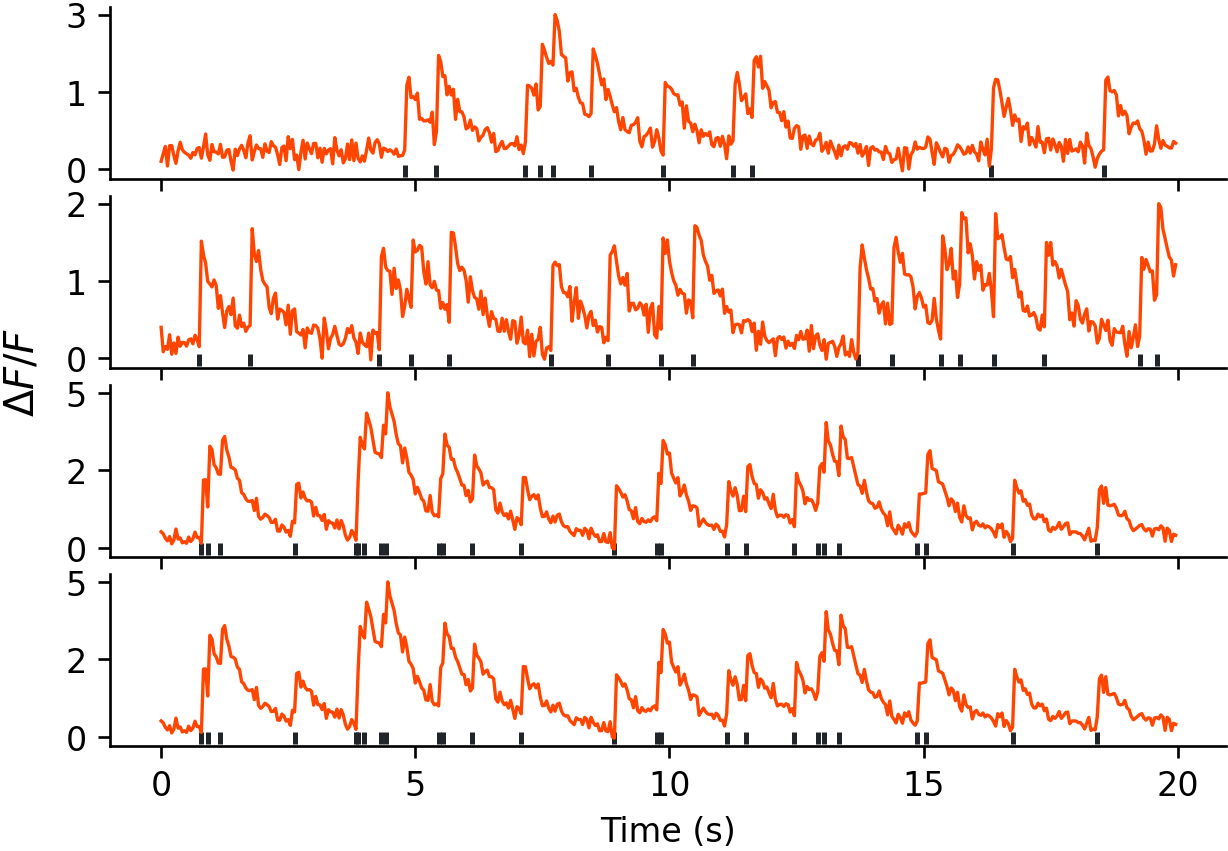
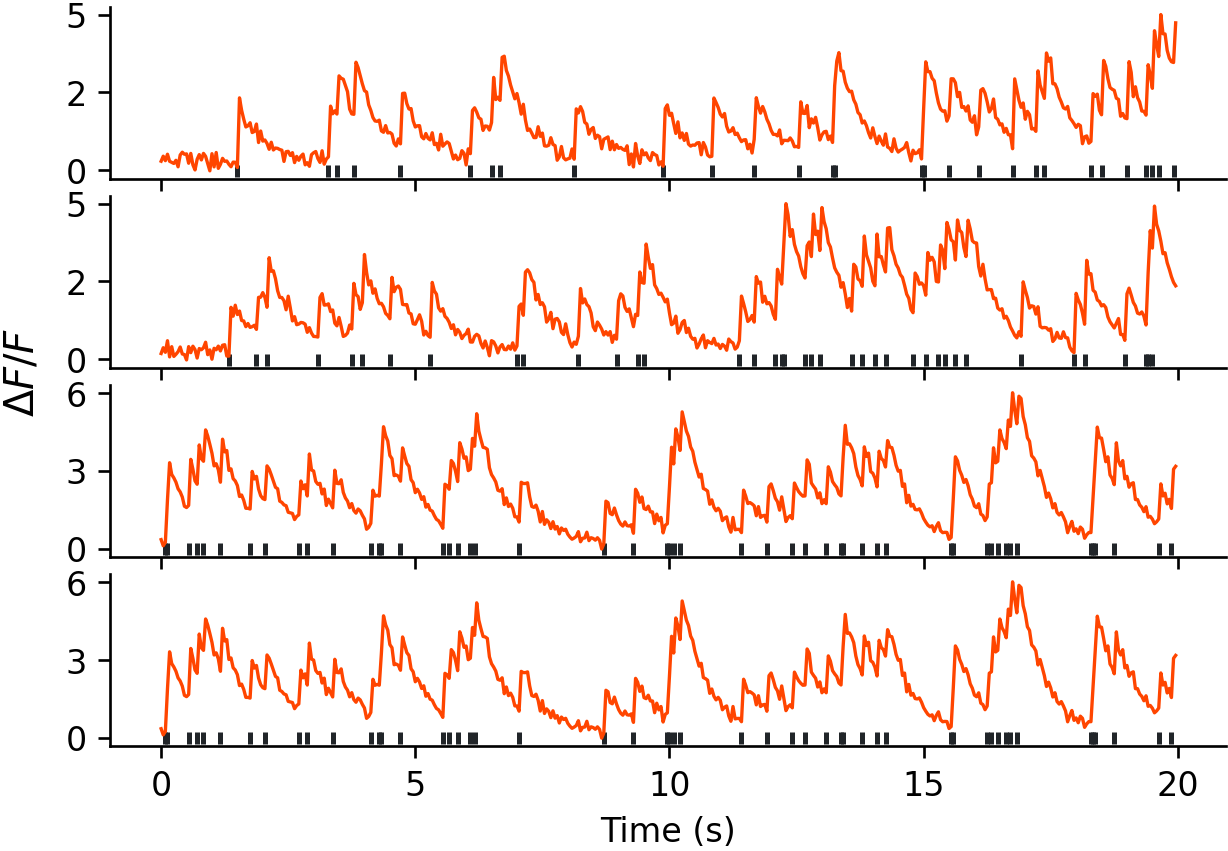
update

diff --git a/spikes2calcium.py b/spikes2calcium.py
@@ -4,22 +4,24 @@ import numpy as np
 warnings.filterwarnings("ignore", category=RuntimeWarning)
 
 
-def _time2calcium(spike_time: float, duration: float, frame_rate: int,
-                  tau_onset: float, amp1: float, tau1: float, amp2: float,
-                  tau2: float):
+def _times2calcium(spike_times: np.ndarray, duration: float, frame_rate: float,
+                   tau_onset: float, amp1: float, tau1: float, amp2: float,
+                   tau2: float):
   """ Convert spike time to calcium signal
   Reference: https://github.com/HelmchenLab/CalciumSim/blob/master/modelCalcium/etc/spkTimes2Calcium.m
   Args:
-    spike_time: float, spike time in second
+    spike_times: np.ndarray, 1D array of spike times in second
     duration: int, duration of the trial in second
     frame_rate: float, the frame rate of the recordings
   """
+  if len(spike_times.shape) == 1:
+    spike_times = np.expand_dims(spike_times, axis=-1)
   tau = np.arange(start=0, stop=duration, step=1 / frame_rate)
-  diff = -(tau - spike_time)
+  diff = -(tau - spike_times)
   trace = np.multiply(1 - np.exp(diff / tau_onset),
                       amp1 * np.exp(diff / tau1) + amp2 * np.exp(diff / tau2))
-  trace = np.nan_to_num(np.where(tau < spike_time, 0, trace))
-  return trace
+  trace = np.nan_to_num(np.where(tau < spike_times, 0, trace))
+  return np.sum(trace, axis=0)
 
 
 def spikes2calcium(spike_trains: np.ndarray,
@@ -45,18 +47,17 @@ def spikes2calcium(spike_trains: np.ndarray,
   """
   assert len(spike_trains.shape) == 2, \
     f'spike_trains should have format (num. neurons, time-steps)'
-  traces = np.zeros(shape=(spike_trains.shape), dtype=np.float32)
+  traces = np.zeros(shape=spike_trains.shape, dtype=np.float32)
   for i in range(spike_trains.shape[0]):
     spike_times = np.nonzero(spike_trains[i])[0] / frame_rate
-    for spike_time in spike_times:
-      traces[i] += _time2calcium(spike_time=spike_time,
-                                 duration=spike_trains.shape[1] / frame_rate,
-                                 frame_rate=frame_rate,
-                                 tau_onset=tau_onset,
-                                 amp1=amp1,
-                                 tau1=tau1,
-                                 amp2=amp2,
-                                 tau2=tau2)
+    traces[i] = _times2calcium(spike_times=spike_times,
+                               duration=spike_trains.shape[1] / frame_rate,
+                               frame_rate=frame_rate,
+                               tau_onset=tau_onset,
+                               amp1=amp1,
+                               tau1=tau1,
+                               amp2=amp2,
+                               tau2=tau2)
   # add noise to signals
   peak = amp1 * ((tau1 / tau_onset) * np.power(
       (tau1 / tau_onset) + 1, -((tau_onset / tau1) + 1)))

diff --git a/utils.py b/utils.py
@@ -10,9 +10,9 @@ if platform.system() == 'Darwin':
   matplotlib.use('TkAgg')
 
 
-def generate_spike_trains(firing_rate: float, duration: int, num_neuorns: int,
+def generate_spike_trains(firing_rate: float, duration: int, num_neurons: int,
                           frame_rate: float) -> np.ndarray:
-  spike_trains = np.random.rand(num_neuorns, ceil(duration * frame_rate))
+  spike_trains = np.random.rand(num_neurons, ceil(duration * frame_rate))
   spike_trains = spike_trains < (firing_rate / frame_rate)
   return spike_trains.astype(np.float32)
 
